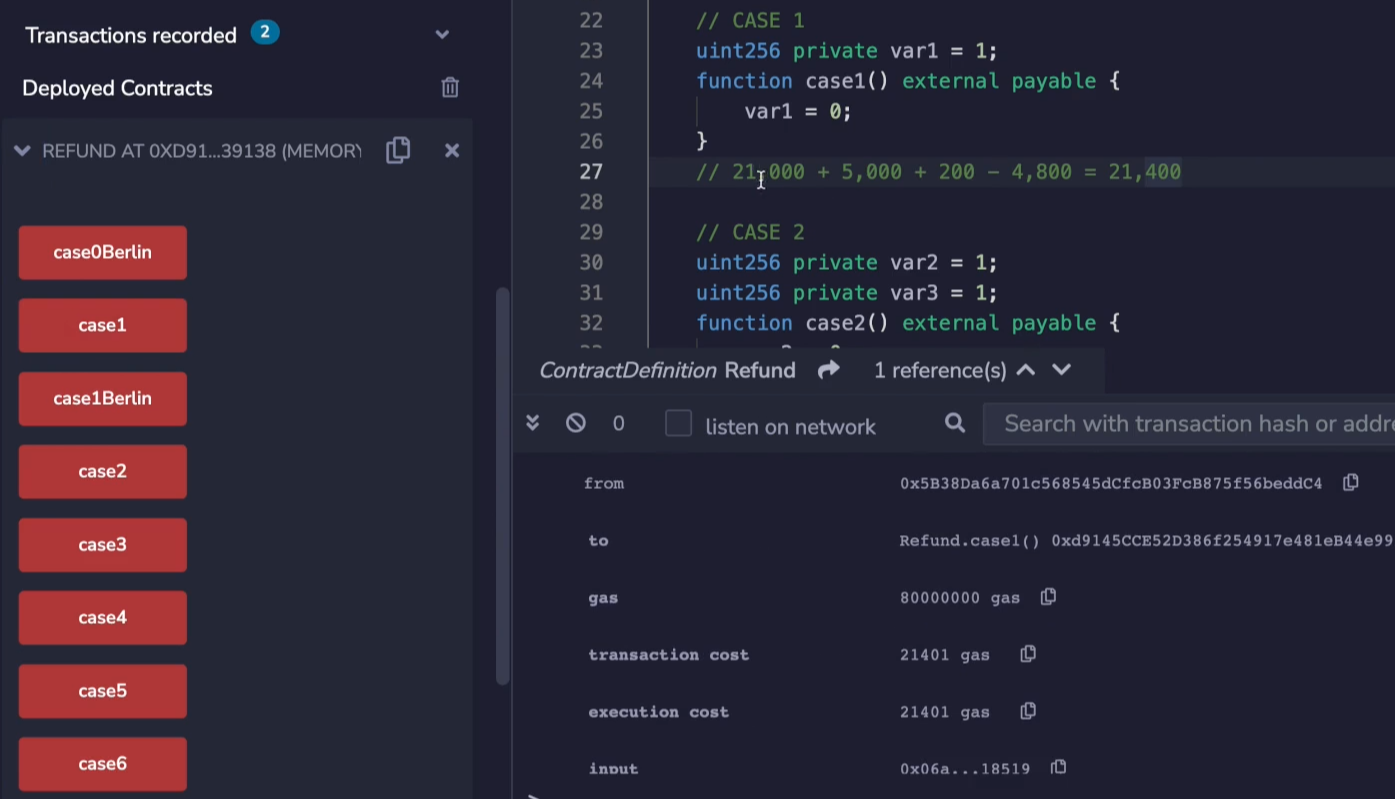
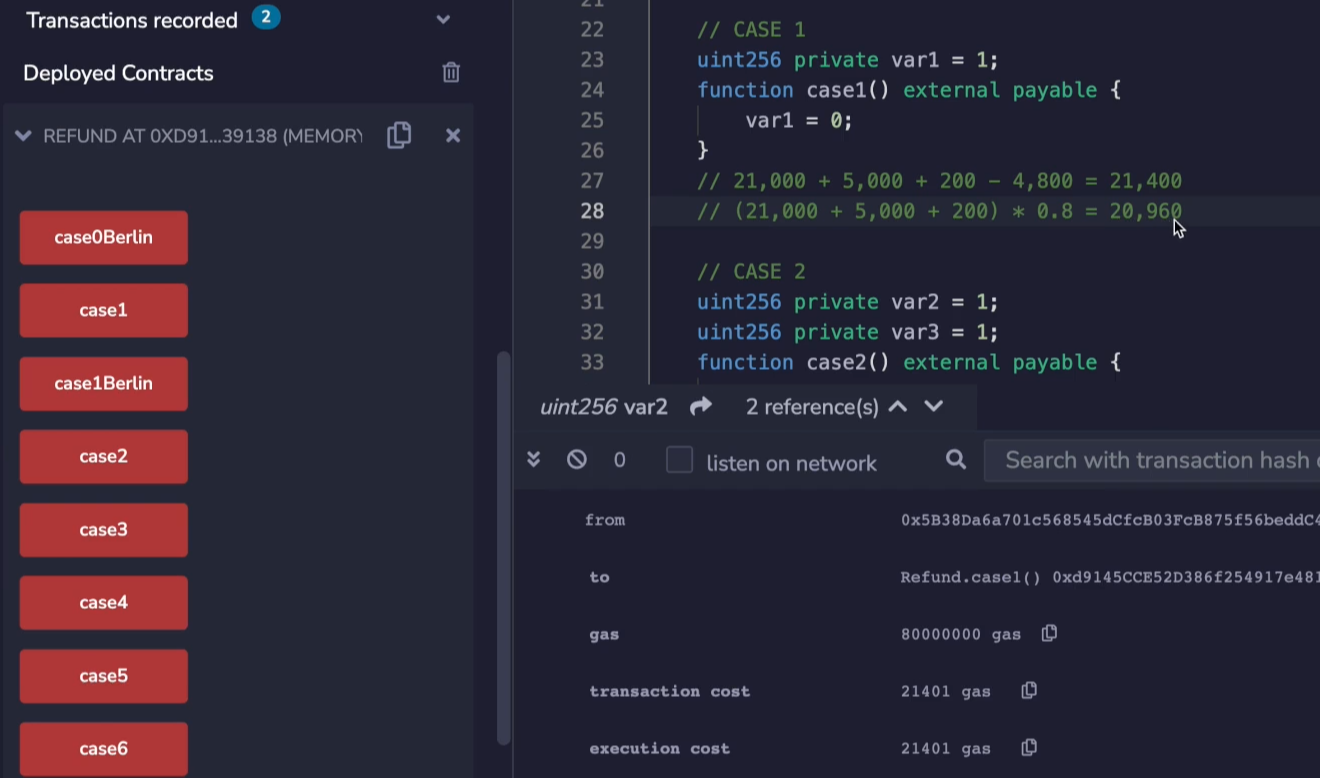
Udemy 31 Complete

diff --git a/week8/Understanding and Optimizing Gas Costs/Section2/31.Refunds and Setting to Zero Part 2.md b/week8/Understanding and Optimizing Gas Costs/Section2/31.Refunds and Setting to Zero Part 2.md
@@ -1,0 +1,138 @@
+![](case1gascost.png)
+
+Now let's look at the cases where we are not able to get our full refund back and see what the implications of that are. Going back to the case earlier, our transaction cost was 21,400 gas. **But if we look at the gas that we could have obtained, that is we had gotten the full 20% possible back, we would have spent as little as 20,960 gas, but we didn't get this refund because we only got 4800 back.** 
+
+(EIP-3529把1/2改为1/5了，可以参考上一篇md)
+
+这里说的意思应该是，如果refund是使用的gas的20%，那么花费的gas应该就是使用的gas的80%，那么实际上应该是20,960，但是我们这里花费了21,400是因为refund少了，不是20%而是4,800，refund少了所以最后花费的gas就多了
+
+```solidity
+		uint256 private var2 = 1;
+    uint256 private var3 = 1;
+    function case2() external payable {
+        var2 = 0;
+        var3 = 0;
+    }
+```
+
+Well, let's set more variables to 0, so that we get an even bigger refund. 
+
+![](case2gascost.png)
+
+Let's run **case2** and see what we get, and we see, as predicted that the gas cost is 24986 gas. That actually causes the price to go up, interestingly. So when we look in this situation, we could say, oh, we could have gotten 20,960 in gas. 
+
+
+
+----------------------------------------------------------------------------------------
+
+这里，21,000 + 5,000 * 2 + 200 = 31,200 / 5 = 6,240 < 4,800 * 2 (因为是两条能够refund的语句)
+
+所以refund取值为6,240
+
+那么最终gas消耗为：21,000 + 5,000 * 2 + 200 - 6,240 = 24,960
+
+也可以直接用这个算法：(21,000 + 5,000 * 2 + 200) * 80% = 24,960
+
+因为refund是使用gas的20%，那么使用的gas就是剩余的80%
+
+----------------------------------------------------------------------------------------
+
+
+
+```solidity
+		uint256 private var4 = 1;
+    uint256 private var5 = 1;
+    uint256 private var6 = 1;
+    function case3() external payable {
+        var4 = 0;
+        var5 = 0;
+        var6 = 0;
+    }
+```
+
+Well, let's get another refund by setting another variable to 0. It doesn't work that way, because for each variable that you set to... that you spend 5000 gas on, to set it to 0, you only get 4800 back (If it doesn't exceed 20% of the transaction). So the reason there was a net redemption here is because we were eating into the 21,000 gas of the transaction. This trend continues if we decide to delete yet another variable. Now, if we look in **case3** where we delete yet another variable, the gas cost is going to continue to go up because we spend an additional 5000 clearing this variable, but we cannot get any more ethers back because the additional 5000 that we're spending, we're only able to get 20% of it back.
+
+![](case3gascost.png)
+
+So let's run **case3**, and in **case3** we see indeed that the cost goes up to 28,000. Again, we could have dropped all the way back down to 21,000 if we were able to get all of these refunds back. But whenever we'd clear another variable, we are adding 5000 to the cost and only able to get about 1000 of it back. (If we have used up the 20% limit)
+
+个人理解：每多把一个变量置为0，要要多花5000gas，但是refund只能获得这5000的20%，因为这时候肯定是走20%的
+
+
+
+```solidity
+		mapping(uint256 => uint256[]) private var7;
+    constructor() {
+        var7[2] = [1,2,3];
+    }
+    function case4() external payable {
+        delete var7[2];
+    }
+```
+
+We get a very similar situation if we clear out an array. Now behind the scenes, an array consists of four variables if there are three items inside of it. One is all of the storage for each of these items, and then there is the length variable, as we talked about earlier. So you'll see if we run this that deleting a array can actually cost quite a bit of money. So this is something you need to be careful with in your application. 
+
+![](case4gascost.png)
+
+If you find yourself deleting arrays, that might actually be quite long (指数字大) because over here you can see that the transaction costs 33,000. But what if this array was, let's say, 12 items long? Well, let's recompile this and deploy this and run **case4**.
+
+```solidity
+		constructor() {
+        var7[2] = [1,2,3,4,5,6,7,8,9,10,11,12];
+    }
+```
+
+![](case4gascost2.png)
+
+In this situation, we're going to see that the gas cost is 69,000. So, that went up quite a bit. And if the variable had a thousand items in it, well, good luck. 
+
+```solidity
+		uint256 private var14 = 1;
+    uint256 private var15 = 0;
+    function case5() external payable {
+        var14 = 0;
+        var15 = 1;
+    }
+```
+
+![](case5gascost.png)
+
+In **case5** we're going to change **var14** from 1 to 0 and **var15** from 0 to 1. So we know the 0 to 1 operation is expensive, it costs 22,100 gas, but the 1 to 0 gives us a refund, it will be 43,550 gas, and this is nice because remember, 43,000 is roughly what we pay when we set a variable from zero to non-zero because there's the 21,000 in the gas and the 22,000 from the... going from zero to non-zero. So we can think of it as being able to set this particular variable (**var14**) to 0 for mostly free. 
+
+```solidity
+		uint256 private var8 = 1;
+    uint256 private var9 = 1;
+    uint256 private var10 = 0;
+    function case6() external payable {
+        var8 = 0;
+        var9 = 0;
+        var10 = 1;
+    }
+```
+
+![](case6gascost.png)
+
+Let's continue the **case6** and run it. We see if we compare the gas cost, that **case6** is 43,716 and **case5** was 43,500. So where is it exactly 200 gas or almost exactly 200 more gas? Well, if you look at the difference between these two equations over here, you'll note that they're almost exactly identical except that we have 5000 times 2 and 4800 times 2 whereas there's only one of these (指case5中没有x2) right? So the extra difference between these two is 200 gas. 
+
+```solidity
+		uint256 private var11 = 1;
+    uint256 private var12 = 1;
+    function case7() external payable {
+        var11 = 0;
+        var12 = 2;
+    }
+```
+
+![](case7gascost.png)
+
+And for the final case, I recommend you work through this problem yourself before I show you the answer. And here it is. We see that the gas cost is 26,000. This comes from the 21,000 of the transaction costs, the 5... there are 2 five thousands in here because we go from 1 to 0 and non-zero to non-zero, and we get a 4800 gas refund for setting **var11** to 0, and then there's the 200 for the extra opcodes associated with the function. 
+
+![](case8.png)
+
+So what's the conclusion of this? Well, one is that you should try to count down rather than counting up if you're keeping track of things like, for example, how many NFTs a particular address has minted. We'll actually discuss a better strategy for that particular case in a later video. But let's just say we were storing that in the storage variable. Well, if you go from 0 to 1 and 1 to 2 and 2 to 3, you're going to have to pay 22,100 plus 5000, plus 5000 and net. The total gas either spent by you or by the buyer is going to be 32,100 gas. If you go in the opposite direction, however, you're going to get a refund or at least a considerably cheaper transaction when you go from 1 to 0. So if you can try to have as many 1 to 0 transactions as possible instead of 0 to 1s, you can save gas in your application. 
+
+最后的200是：你花5000，但是refund 4800，所以就是花200
+
+![](summary.png)
+
+Okay, now let's look at the summary here. Setting to zero can cost between 200 and 5,000 gas depending on how much of a refund you're able to get back. Deleting an array or setting many values to zero can be surprisingly expensive. So be mindful if you are doing a lot of deletes but don't actually have an opportunity to capture the refund. This is basically saying something similar. Setting a value from non-zero to non-zero is the same as setting it from non-zero to zero if you do not have extra gas costs that you can redeem. So if you are able to do something expensive at the same time that you do a redemption, then you can actually net save gas and get more work done for the same amount of gas. And counting down is more efficient than counting up.

diff --git a/week8/Understanding and Optimizing Gas Costs/Section2/30.Refunds and Setting to Zero Part 1.md b/week8/Understanding and Optimizing Gas Costs/Section2/30.Refunds and Setting to Zero Part 1.md
@@ -128,7 +128,7 @@ And here are the adjustments. The first significant change that happened in the 
 
 The next thing we're going to look at is the refund. So this might look like gibberish and you can feel free to look through it on your own. But this (4,800) essentially replaces the 15,000 we were looking at earlier. So you can get up to 4800 gas refund instead of 15,000 gas like it used to be. 
 
-And the other thing is, remember how we said we could get up to half of the amount that we spent back as a refund? Well, that's not the case anymore. Now it is 1/5. 
+And the other thing is, remember how we said we could get up to **half** of the amount that we spent back as a refund? Well, that's not the case anymore. **Now it is 1/5**. 
 
 ```solidity
 		uint256 private var1 = 1;
@@ -151,7 +151,7 @@ Let's run case one and we see that the gas cost is 21,400. How does this come ou
 
 <img src="case1londongascost.png" alt="1" style="zoom:45%;" />
 
-21,000 + 5,000 + 138 = 26,138 / 2 = 13,069 > 4,800
+21,000 + 5,000 + 138 = 26,138 / 5 = 5,227 > 4,800
 
 所有refund取值为4,800
 
